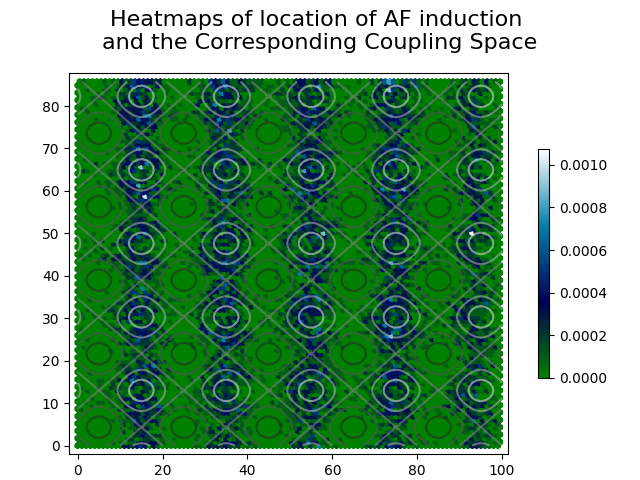
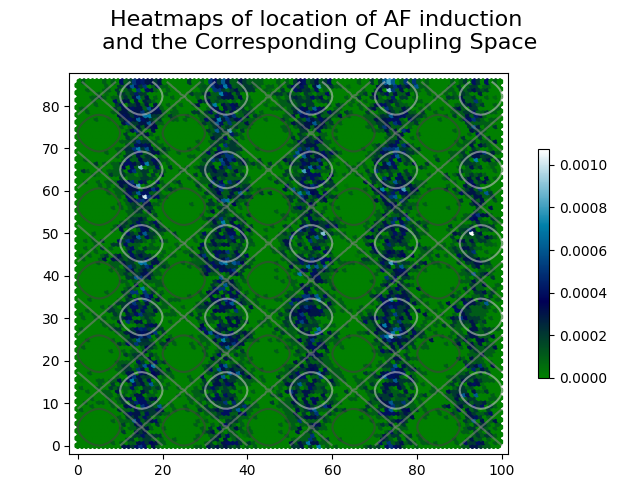
Quick heatmap change

Changed region(s): [[0.125, 0.1562, 0.8125, 0.9375]]

diff --git a/heatmap.py b/heatmap.py
@@ -142,7 +142,7 @@ def plot_heat_map_contour(fname, convolve = True):
 
     levels = np.linspace(min(sin_z), max(sin_z), 5)
 
-    ax1.contour(X,Y, sin_z, levels = 5, cmap = 'binary', alpha = 0.6)#, levels)
+    ax1.contour(X,Y, sin_z, levels = 3, cmap = 'binary', alpha = 0.6)#, levels)
         
     fig.suptitle('Heatmaps of location of AF induction \nand the Corresponding Coupling Space', fontsize = 16)
     plt.tight_layout()

diff --git a/main.py b/main.py
@@ -125,7 +125,7 @@ def Periodicity(): #Ensure Config is set up properly
     A = [1] #0,1,3,5,10,20
     multi = 0.04
     print(multi)
-    runs = 10
+    runs = 10000
     for i in A:
         print('multi', i)
         for _ in range(runs):
